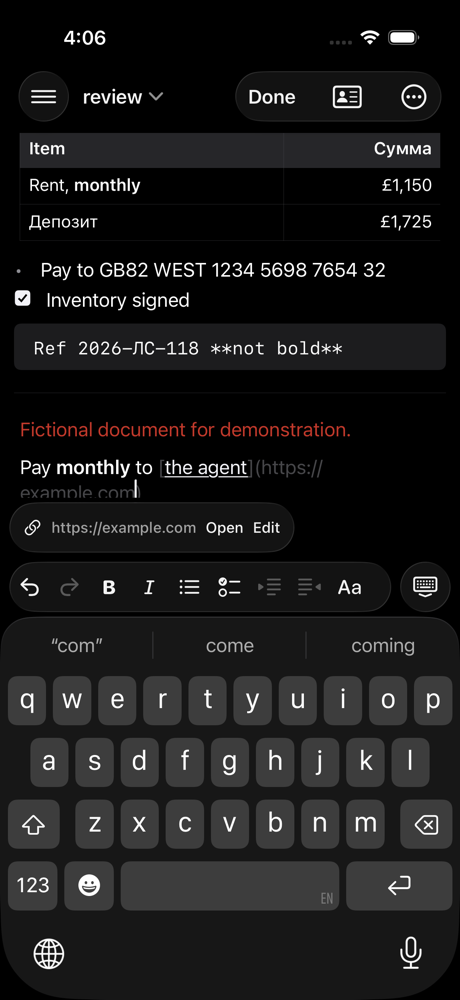
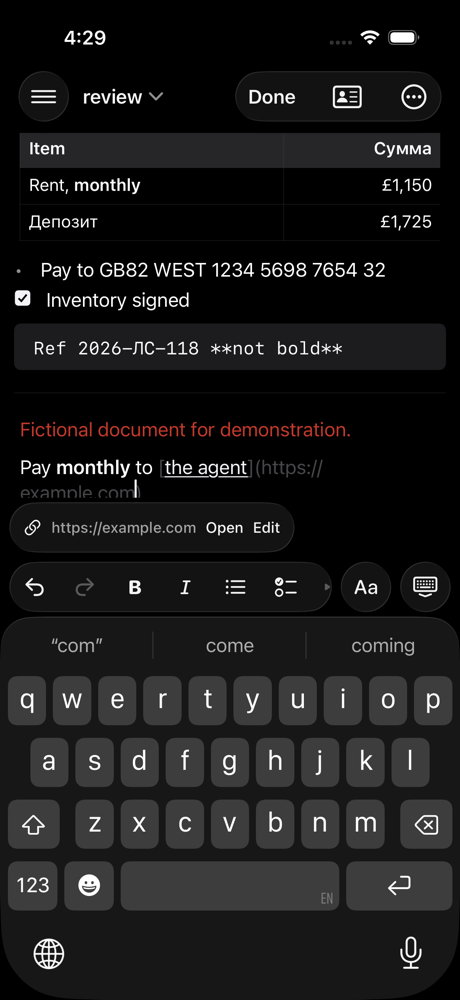
Review fixes: no formatting in code, link labels that read back, 44 pt toolbar targets
The core's format toggle does nothing in code or math, so ⌘B there leaves
the text alone as the disabled button does. A link label drops brackets
(the shared scanner ends a label at its first ]) and doubles backslashes,
and reads back as typed. Every toolbar button is a 44 pt target: Aa joins
hide keyboard as a glass circle that always shows, and the capsule of the
other eight scrolls when it does not fit.

diff --git a/apps/ios/mdoc/Document/EditToolbar.swift b/apps/ios/mdoc/Document/EditToolbar.swift
@@ -3,12 +3,13 @@ import SwiftUI
 import UIKit
 
 /// Edit mode's toolbar above the keyboard (ADR 0109): a Liquid Glass
-/// capsule of undo, redo, bold, italic, list, task, indent, outdent and Aa,
-/// with a round button beside it that hides the keyboard. A button is on
-/// while the caret is in what it makes (bold inside `**…**`, list on a list
-/// line) and off where it cannot apply. The capsule scrolls sideways when
-/// the text size leaves it no room. With the caret in a link, a chip above
-/// it offers Open and Edit.
+/// capsule of undo, redo, bold, italic, list, task, indent and outdent,
+/// then Aa and hide keyboard as glass circles that always show. A button is
+/// on while the caret is in what it makes (bold inside `**…**`, list on a
+/// list line) and off where it cannot apply. Every button is a 44 pt
+/// target; the capsule scrolls sideways when the phone or the text size
+/// leaves it no room. With the caret in a link, a chip above it offers
+/// Open and Edit.
 struct EditToolbar: View {
     let model: EditToolbarModel
 
@@ -27,8 +28,14 @@ struct EditToolbar: View {
                     .scrollBounceBehavior(.basedOnSize, axes: .horizontal)
                     .glassEffect(.regular, in: .capsule)
                     ToolbarKey(
-                        symbol: "keyboard.chevron.compact.down", label: Text("Hide keyboard"), id: "toolbar-hide-keyboard",
-                        round: true
+                        symbol: "textformat", label: Text("Formatting"), id: "toolbar-formatting", on: model.formatting,
+                        hint: Text("Shows formatting keys in place of the keyboard.")
+                    ) {
+                        model.setFormatting(!model.formatting)
+                    }
+                    .glassEffect(.regular.interactive(), in: .circle)
+                    ToolbarKey(
+                        symbol: "keyboard.chevron.compact.down", label: Text("Hide keyboard"), id: "toolbar-hide-keyboard"
                     ) { model.hideKeyboard() }
                         .glassEffect(.regular.interactive(), in: .circle)
                 }
@@ -52,12 +59,6 @@ struct EditToolbar: View {
         command(.task, symbol: "checklist", label: Text("Task"), id: "toolbar-task", value: model.taskValue)
         command(.indent, symbol: "increase.indent", label: Text("Indent"), id: "toolbar-indent")
         command(.outdent, symbol: "decrease.indent", label: Text("Outdent"), id: "toolbar-outdent")
-        ToolbarKey(
-            symbol: "textformat", label: Text("Formatting"), id: "toolbar-formatting", on: model.formatting,
-            hint: Text("Shows formatting keys in place of the keyboard.")
-        ) {
-            model.setFormatting(!model.formatting)
-        }
     }
 
     private func command(
@@ -71,8 +72,8 @@ struct EditToolbar: View {
     }
 }
 
-/// One toolbar button: a symbol on a 44 pt target that grows with the text.
-/// On, it is an ink capsule and VoiceOver hears it selected.
+/// One toolbar button: a symbol on a 44 pt square target that grows with
+/// the text. On, it is an ink circle and VoiceOver hears it selected.
 struct ToolbarKey: View {
     let symbol: String
     let label: Text
@@ -81,23 +82,17 @@ struct ToolbarKey: View {
     var enabled = true
     var value: String?
     var hint: Text?
-    /// The round button beside the capsule is 44 pt square.
-    var round = false
     let action: () -> Void
 
-    /// 44 pt high; 35 pt wide, so the capsule's nine buttons and the round
-    /// one fit a 390 pt phone at the default text size, as a keyboard's
-    /// keys do.
     @ScaledMetric(relativeTo: .body) private var side = Size.target
-    @ScaledMetric(relativeTo: .body) private var width: CGFloat = 35
 
     var body: some View {
         Button(action: action) {
             Image(systemName: symbol)
                 .font(.body.weight(.medium))
                 .foregroundStyle(on ? Color.onAccent : enabled ? Color.primary : Color.secondary)
-                .frame(minWidth: round ? side : width, minHeight: side)
-                .background { if on { Capsule().fill(Color.ink).padding(.vertical, Space.xxs) } }
+                .frame(minWidth: side, minHeight: side)
+                .background { if on { Circle().fill(Color.ink).padding(Space.xxs) } }
                 .contentShape(Rectangle())
         }
         .buttonStyle(.plain)

diff --git a/apps/ios/mdocUITests/EditToolbarUITests.swift b/apps/ios/mdocUITests/EditToolbarUITests.swift
@@ -49,6 +49,12 @@ final class EditToolbarUITests: XCTestCase {
         for _ in 0..<3 { app.typeKey(.leftArrow, modifierFlags: []) }
         let bold = app.buttons["toolbar-bold"]
         XCTAssertFalse(bold.isSelected)
+        // Every button the toolbar shows is a 44 pt target.
+        for id in ["undo", "redo", "bold", "italic", "list", "task", "formatting", "hide-keyboard"] {
+            let frame = app.buttons["toolbar-\(id)"].frame
+            XCTAssertGreaterThanOrEqual(min(frame.width, frame.height), 44, id)
+        }
+        XCTAssertTrue(app.buttons["toolbar-formatting"].isHittable, "Aa always shows")
         bold.tap()
         // The caret is in the bold word: its markers show, and Bold is on.
         XCTAssertTrue(text.wait(until: NSPredicate(format: "value ENDSWITH %@", "Pay **monthly**"), timeout: 5))
@@ -133,19 +139,20 @@ final class EditToolbarUITests: XCTestCase {
         XCTAssertEqual(try audit("formatting-keyboard"), [], "issues on the formatting keyboard")
     }
 
-    /// At the largest accessibility text size the toolbar scrolls: its last
-    /// button is reached by swiping it, and still works.
+    /// At the largest accessibility text size the capsule scrolls: its last
+    /// button is reached by swiping it, and Aa and hide keyboard stay.
     @MainActor
     func testTheToolbarScrollsAtAnAccessibilitySize() throws {
         let (app, text) = edit(contentSize: "UICTContentSizeCategoryAccessibilityXXXL")
         app.typeText("Item")
-        let aa = app.buttons["toolbar-formatting"]
+        XCTAssertTrue(app.buttons["toolbar-formatting"].isHittable)
+        let aa = app.buttons["toolbar-outdent"]
         XCTAssertTrue(aa.exists)
         var tries = 0
         // Undo shows first; the rest is reached by swiping the capsule.
         let undo = app.buttons["toolbar-undo"]
         XCTAssertTrue(undo.isHittable)
-        let hide = app.buttons["toolbar-hide-keyboard"].frame
+        let hide = app.buttons["toolbar-formatting"].frame
         let origin = app.windows.firstMatch.coordinate(withNormalizedOffset: .zero)
         let from = origin.withOffset(CGVector(dx: hide.minX - 30, dy: hide.midY))
         let to = origin.withOffset(CGVector(dx: 30, dy: hide.midY))
@@ -153,7 +160,7 @@ final class EditToolbarUITests: XCTestCase {
             from.press(forDuration: 0.05, thenDragTo: to)
             tries += 1
         }
-        XCTAssertTrue(aa.isHittable, "Aa is reached by scrolling the toolbar")
+        XCTAssertTrue(aa.isHittable, "Outdent is reached by scrolling the capsule")
         let list = app.buttons["toolbar-list"]
         if list.isHittable {
             list.tap()

diff --git a/apps/ios/mdocTests/EditToolbarTests.swift b/apps/ios/mdocTests/EditToolbarTests.swift
@@ -205,6 +205,11 @@ final class EditToolbarTests: XCTestCase {
         XCTAssertFalse(harness.toolbar.isEnabled(.format(.bold)))
         XCTAssertFalse(harness.toolbar.isEnabled(.rule))
         XCTAssertTrue(harness.toolbar.isOn(.turnInto(.codeBlock)))
+        // ⌘B there does nothing either: the core leaves code's text alone.
+        let before = harness.shown, sent = harness.coordinator.bridge.sent
+        harness.view.boldKey()
+        XCTAssertEqual(harness.shown, before)
+        XCTAssertEqual(harness.coordinator.bridge.sent, sent)
         XCTAssertFalse(harness.toolbar.canUndo)
         caret(harness, at: "Last")
         run(harness, .format(.bold))

diff --git a/crates/mdoc-editor-core/src/toolbar.rs b/crates/mdoc-editor-core/src/toolbar.rs
@@ -135,7 +135,7 @@ pub fn link_at(source: &str, caret: usize) -> Option<LinkAt> {
         .find(|(r, _)| r.start <= col && col <= r.end)?;
     let text = if line[range.clone()].starts_with('[') {
         let close = line[range.start + 1..].find(']')? + range.start + 1;
-        line[range.start + 1..close].to_string()
+        line[range.start + 1..close].replace("\\\\", "\\")
     } else {
         url.clone()
     };
@@ -225,13 +225,20 @@ fn remaining(marker: &str, format: InlineFormat) -> String {
 /// caret, or a selection within it) its markers come off; otherwise a
 /// selection toggles as desktop's does, a caret inside a word wraps the
 /// word, and a caret elsewhere gets an empty pair to type into. `None` on
-/// a blank selection.
+/// a blank selection, and in code or math, where markers are literal text
+/// (the toolbar's button is off there, and ⌘B does nothing).
 pub fn toggle_format(
     source: &str,
     selection: Range<usize>,
     format: InlineFormat,
 ) -> Option<EditResult> {
     let sel = sorted(&selection);
+    let sel = sel.start.min(source.len())..sel.end.min(source.len());
+    let scan = BlockScan::new(source);
+    let (first, last) = (row_col(source, sel.start).0, row_col(source, sel.end).0);
+    if (first..=last).any(|row| scan.view().row_is_literal(source, row)) {
+        return None;
+    }
     if let Some(pair) = pairs_holding(source, &sel)
         .into_iter()
         .rev()
@@ -314,6 +321,15 @@ fn link_target(url: &str) -> String {
         .replace(')', "%29")
 }
 
+/// A link's text as Markdown writes it, so the shared scanner reads it
+/// back whole: one line, no brackets (its first `]` ends a label, escaped
+/// or not), backslashes doubled.
+fn link_label(text: &str) -> String {
+    text.replace(['\n', '\r'], " ")
+        .replace(['[', ']'], "")
+        .replace('\\', "\\\\")
+}
+
 /// The link sheet's Done: `[text](url)` over the link at the caret, or
 /// over the selection (the caret after it). An empty URL takes the link at
 /// the caret away, keeping its text; an empty text shows the URL. `None`
@@ -327,19 +343,20 @@ pub fn set_link(
     let sel = sorted(&selection);
     let link = link_at(source, selection.end.min(source.len()));
     let range = link.as_ref().map_or(sel, |l| l.range.clone());
-    let text = text.replace(['\n', '\r'], " ");
     let target = link_target(url);
     let replacement = if target.is_empty() {
         link.as_ref()?;
+        // The text as typed: no longer a label.
+        let text = text.replace(['\n', '\r'], " ");
         if text.is_empty() {
             link.map(|l| l.text).unwrap_or_default()
         } else {
             text
         }
-    } else if text.trim().is_empty() {
-        format!("[{target}]({target})")
+    } else if link_label(text).trim().is_empty() {
+        format!("[{}]({target})", link_label(&target))
     } else {
-        format!("[{text}]({target})")
+        format!("[{}]({target})", link_label(text))
     };
     let caret = range.start + replacement.len();
     Some(EditResult::one(range, replacement, caret))
@@ -517,6 +534,11 @@ mod tests {
             ("the ==tenant== pays".into(), 6..12)
         );
         assert_eq!(toggle_format("a  b", 1..3, Bold), None);
+        // In code and math markers are literal: nothing toggles.
+        let s = "a\n```\namount\n```\n$$\nx\n$$";
+        assert_eq!(toggle_format(s, caret(at(s, "amount") + 2), Bold), None);
+        assert_eq!(toggle_format(s, caret(at(s, "x\n$$")), Italic), None);
+        assert_eq!(toggle_format(s, 0..at(s, "amount") + 2, Bold), None);
         // Cyrillic words wrap whole.
         let s = "один два";
         assert_eq!(run(s, toggle_format(s, caret(2), Bold)).0, "**один** два");
@@ -565,6 +587,21 @@ mod tests {
             run("", set_link("", caret(0), "", "https://a.org")).0,
             "[https://a.org](https://a.org)"
         );
+        // Brackets would end the label early; backslashes are doubled, and
+        // the label reads back as typed.
+        for (typed, label, read) in [
+            ("Section 1]", "Section 1", "Section 1"),
+            ("[draft] terms", "draft terms", "draft terms"),
+            ("a\\b\\", "a\\\\b\\\\", "a\\b\\"),
+        ] {
+            let (out, _) = run("", set_link("", caret(0), typed, "https://a.org"));
+            assert_eq!(out, format!("[{label}](https://a.org)"), "{typed:?}");
+            let link = link_at(&out, 1).expect("the scanner reads it as a link");
+            assert_eq!(
+                (link.text.as_str(), link.url.as_str()),
+                (read, "https://a.org")
+            );
+        }
     }
 
     #[test]

diff --git a/crates/mdoc-ffi/src/editor.rs b/crates/mdoc-ffi/src/editor.rs
@@ -203,7 +203,7 @@ pub fn editor_delete_forward(
 /// format, the caret or a selection within it, its markers come off;
 /// otherwise a selection is wrapped (the same text kept selected), a caret
 /// in a word wraps the word, and a caret elsewhere gets an empty pair to
-/// type into. Nil on a blank selection.
+/// type into. Nil on a blank selection, and in code or math.
 #[uniffi::export]
 pub fn editor_toggle_format(
     text: String,

diff --git a/docs/mobile-ui.md b/docs/mobile-ui.md
@@ -62,7 +62,7 @@ iOS: [`apps/ios/mdoc/Design/`](../apps/ios/mdoc/Design/).
 | `Toast` / `.toast($message)` | A short message after an action, with at most one action (Undo). Announced to VoiceOver; gone after about 4 s, or 6 s with an action, where a ring shows the seconds left. |
 | `StateMark` / `StateButtonLabel` | A mention's state as a round mark: dashed ring proposed, accent disc replaced, eye kept. As a button it has a 44 pt target and the state as its label. |
 | `ReviewHintLine` | A hint line: symbol, words, ×. The review bar's, and Identities' one. |
-| `EditToolbar` / `ToolbarKey` | Edit mode's bar above the keyboard (ADR 0109): a glass capsule of icon buttons, 44 pt targets that grow with the text, scrolling sideways when they don't fit, and a glass circle beside it that hides the keyboard. A button that is on is an ink capsule (VoiceOver: selected); one that can't apply is secondary and disabled. A link chip (glass capsule) sits above it while the caret is in a link. The host never becomes first responder. |
+| `EditToolbar` / `ToolbarKey` | Edit mode's bar above the keyboard (ADR 0109): a glass capsule of icon buttons (undo to outdent) that scrolls sideways when they don't fit, then Aa and hide keyboard as glass circles that always show; every button is a 44 pt square target that grows with the text. A button that is on is an ink circle (VoiceOver: selected); one that can't apply is secondary and disabled. A link chip (glass capsule) sits above it while the caret is in a link. The host never becomes first responder. |
 | `FormattingKeyboard` / `FormattingKey` | Aa's keys in place of the keyboard, grouped Turn into, Format, Insert: a symbol over its name on a keyboard-coloured key, the selected block in ink, scrolling at large text sizes; its keyboard key brings the system keyboard back. |
 | `Haptics` | `selection` per card, `decision` on Replace, Keep and Same as, `edge` at the end of a list, `success` on All reviewed, `warning` on undo. Off when Settings › Review › Haptics is off. |
 
